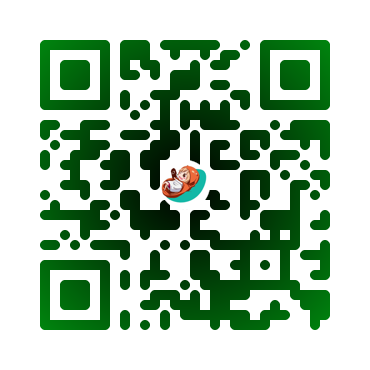
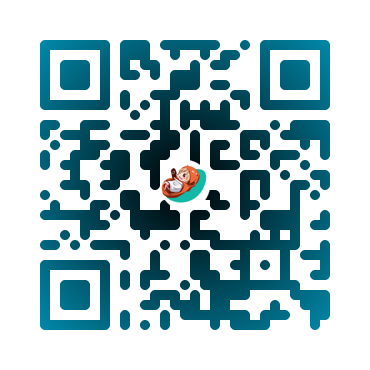
update

Changed region(s): [[0.0892, 0.0892, 0.8919, 0.8919], [0.0892, 0.0892, 0.2973, 0.2973]]

diff --git a/python/qrImages.py b/python/qrImages.py
@@ -42,7 +42,7 @@ qr_image = qr.make_image(
     image_factory=StyledPilImage, 
     module_drawer=RoundedModuleDrawer(), eye_drawer=RoundedModuleDrawer(), 
      # color_mask=SolidFillColorMask(back_color=(255,255,255), front_color=(0,0,200))
-    color_mask=RadialGradiantColorMask(back_color=(255,255,255), edge_color=(0,170,19), center_color=(0,0,0))
+    color_mask=RadialGradiantColorMask(back_color=(255,255,255), edge_color=(2,175,217), center_color=(0,0,0))
 )
 
 logo = Image.open("image/g.png")
